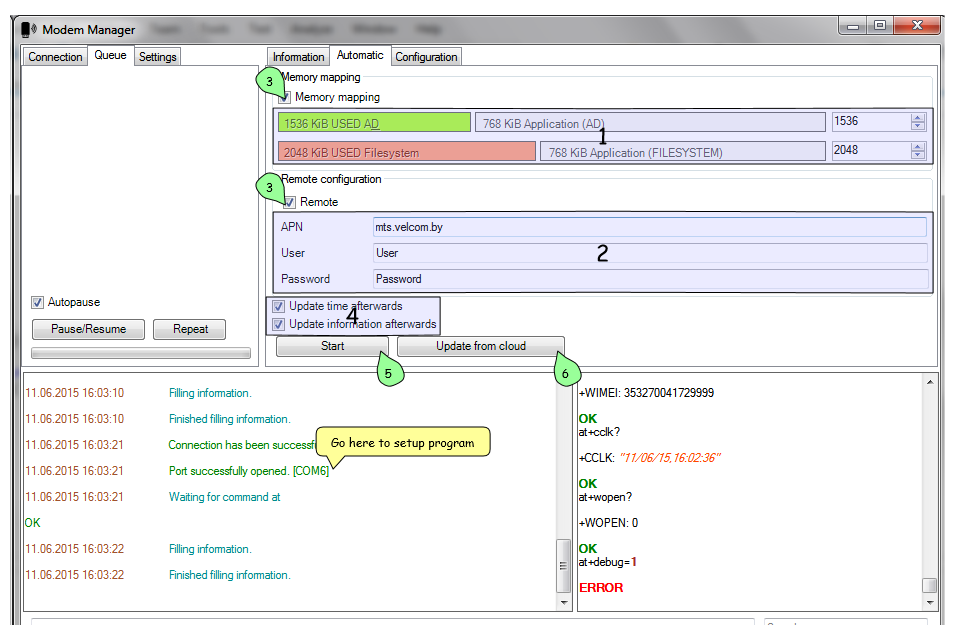
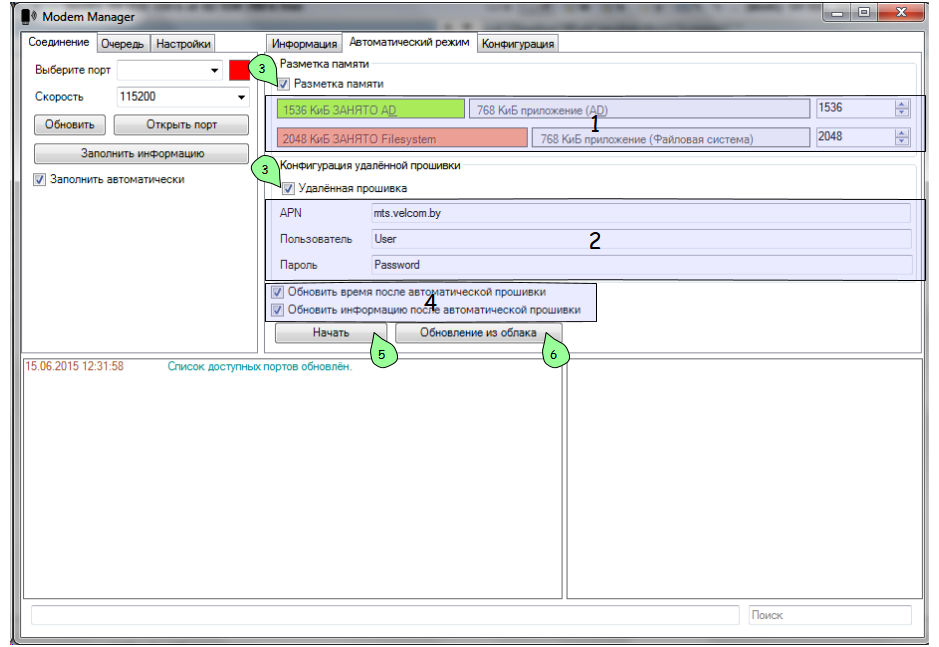
Automatic rus image.

Changed region(s): [[0.0, 0.0, 0.9883, 1.0], [0.1853, 0.7904, 0.3088, 0.8208]]

diff --git a/usage.rst b/usage.rst
@@ -98,7 +98,7 @@
 Подготовка к работе
 -------------------
 
-Before start using modem, you need to prepare it for work. If you obtained clean modem without our latest application, or you wish to upgrade to the latest version and you haven't setup needed APN or other settings yet, you should do following:
+Перед началом использования модема, необходимо подготовить его для работы. Если у Вас есть чистый модем без нашего приложения последней версии, или Вы желаете обновить приложение до последней версии, или не был настроен APN sim-карты, необходимо сделать следующее:
 
 .. image:: Screens/Automatic.png
 
